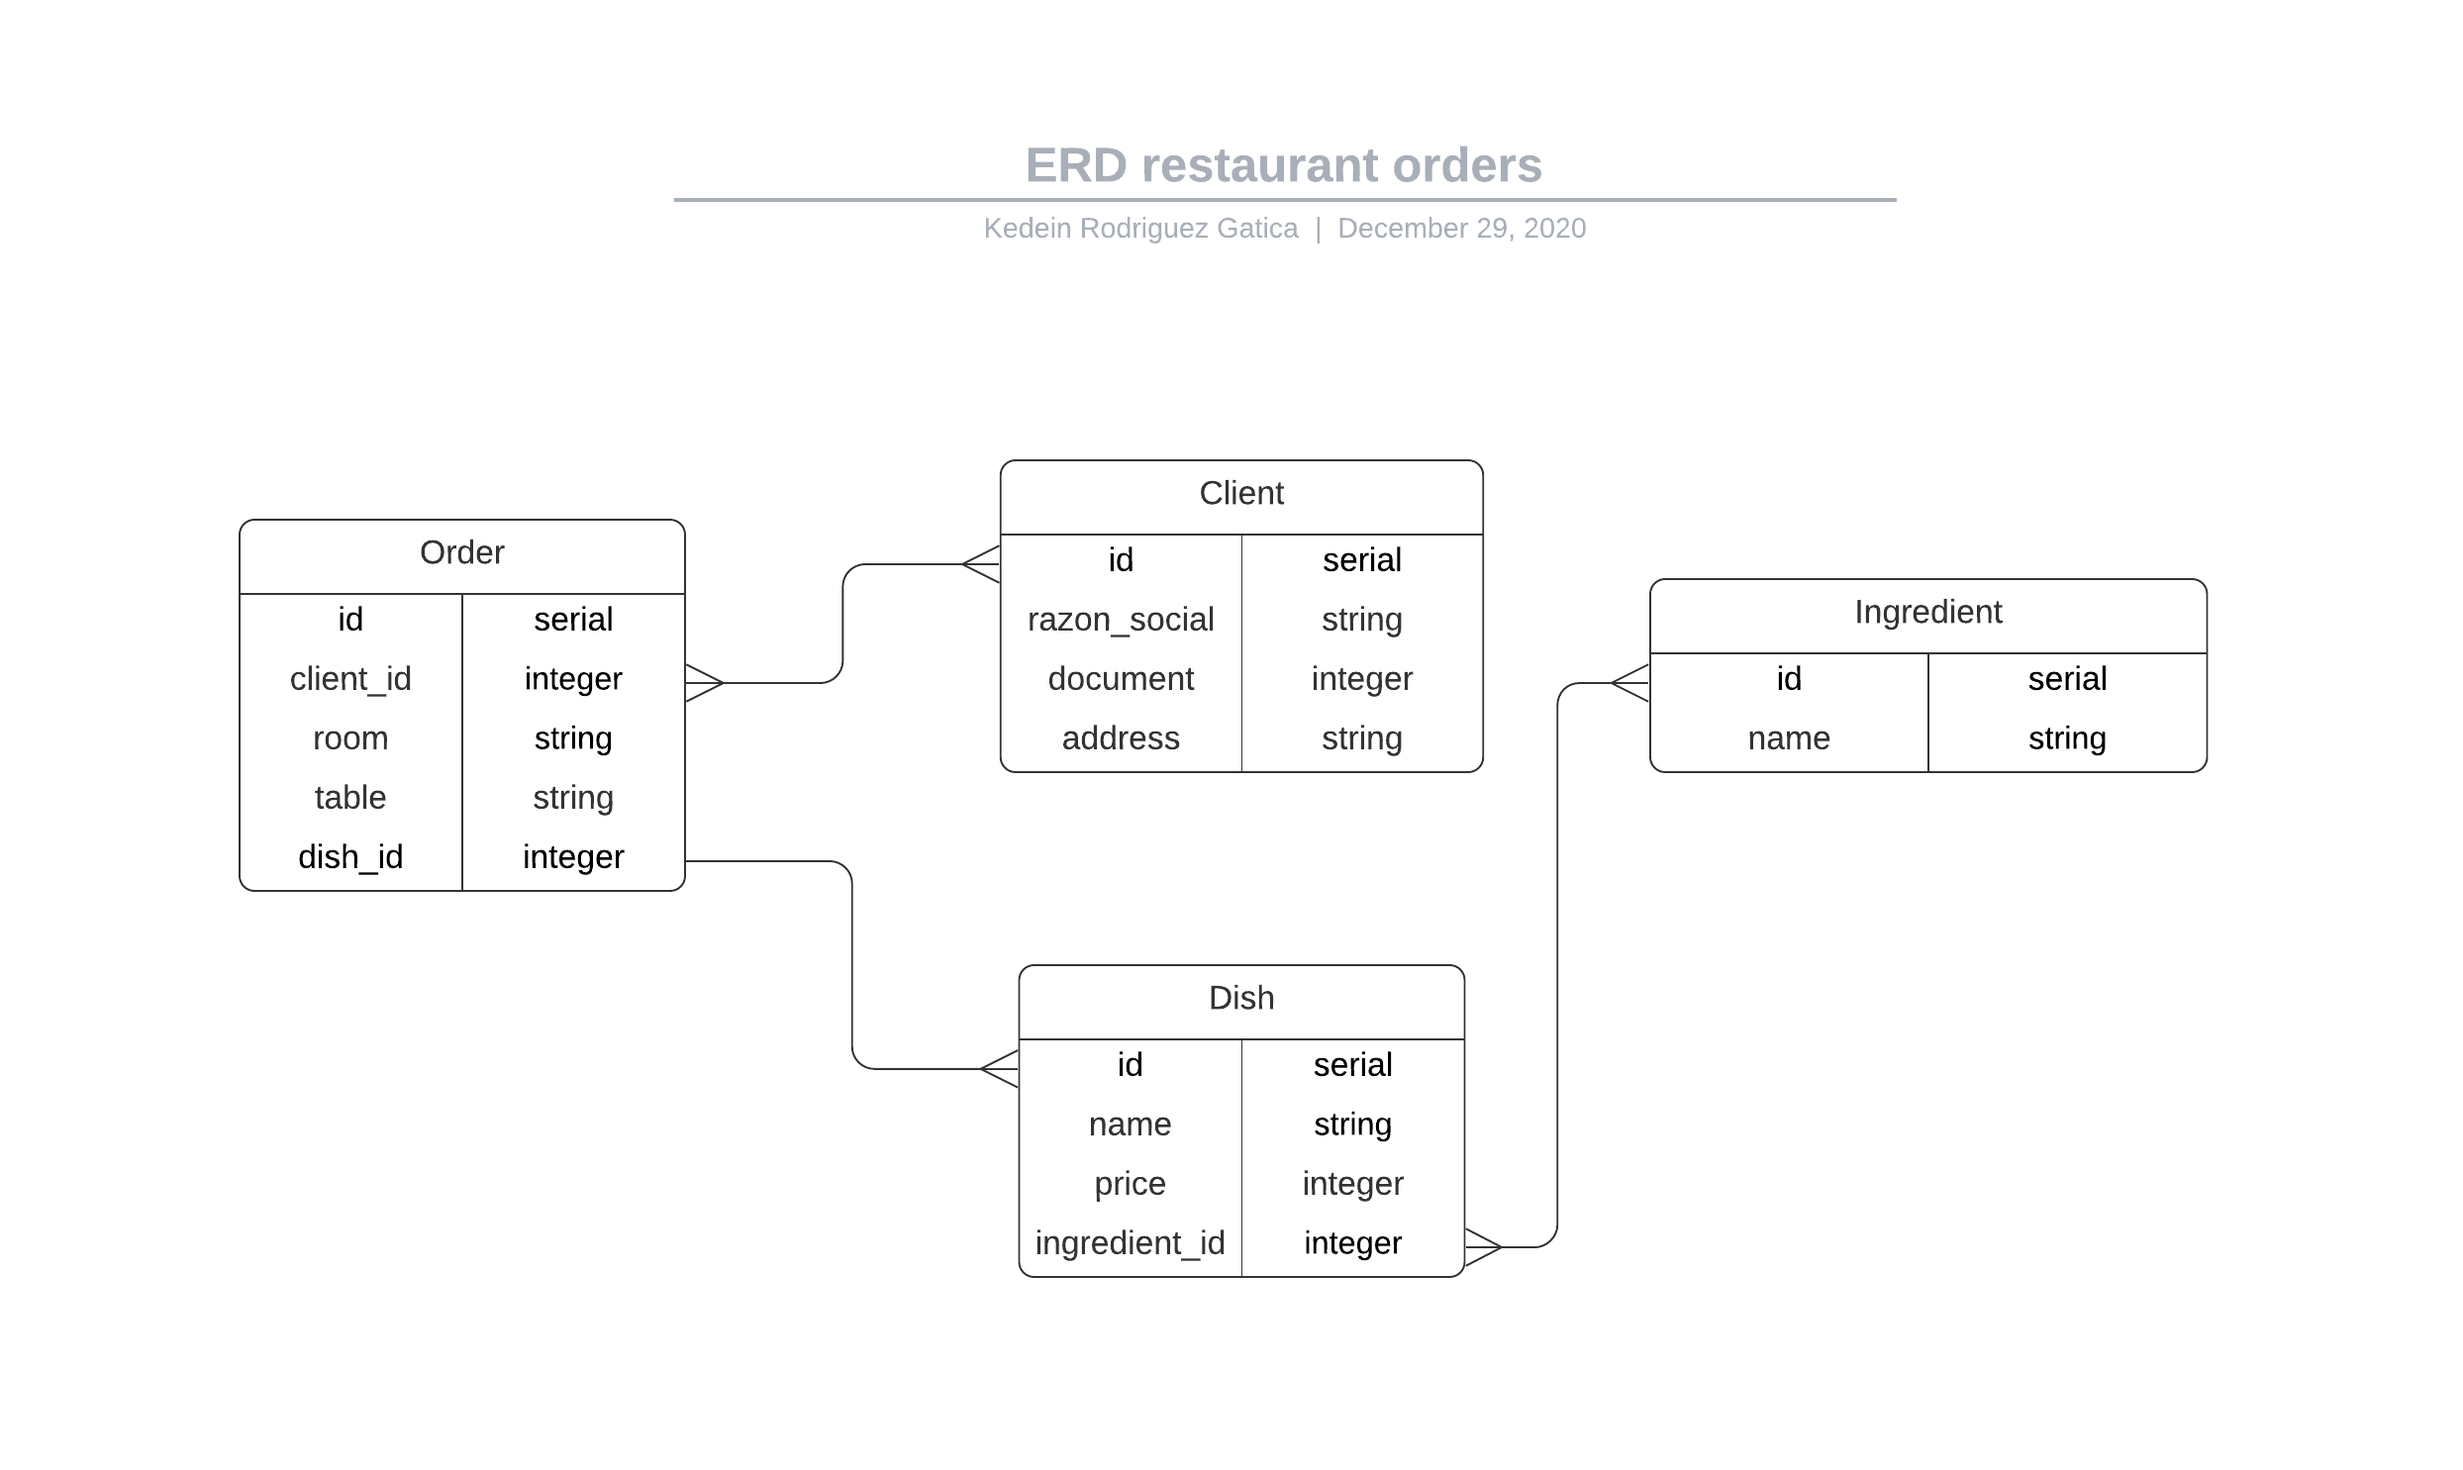
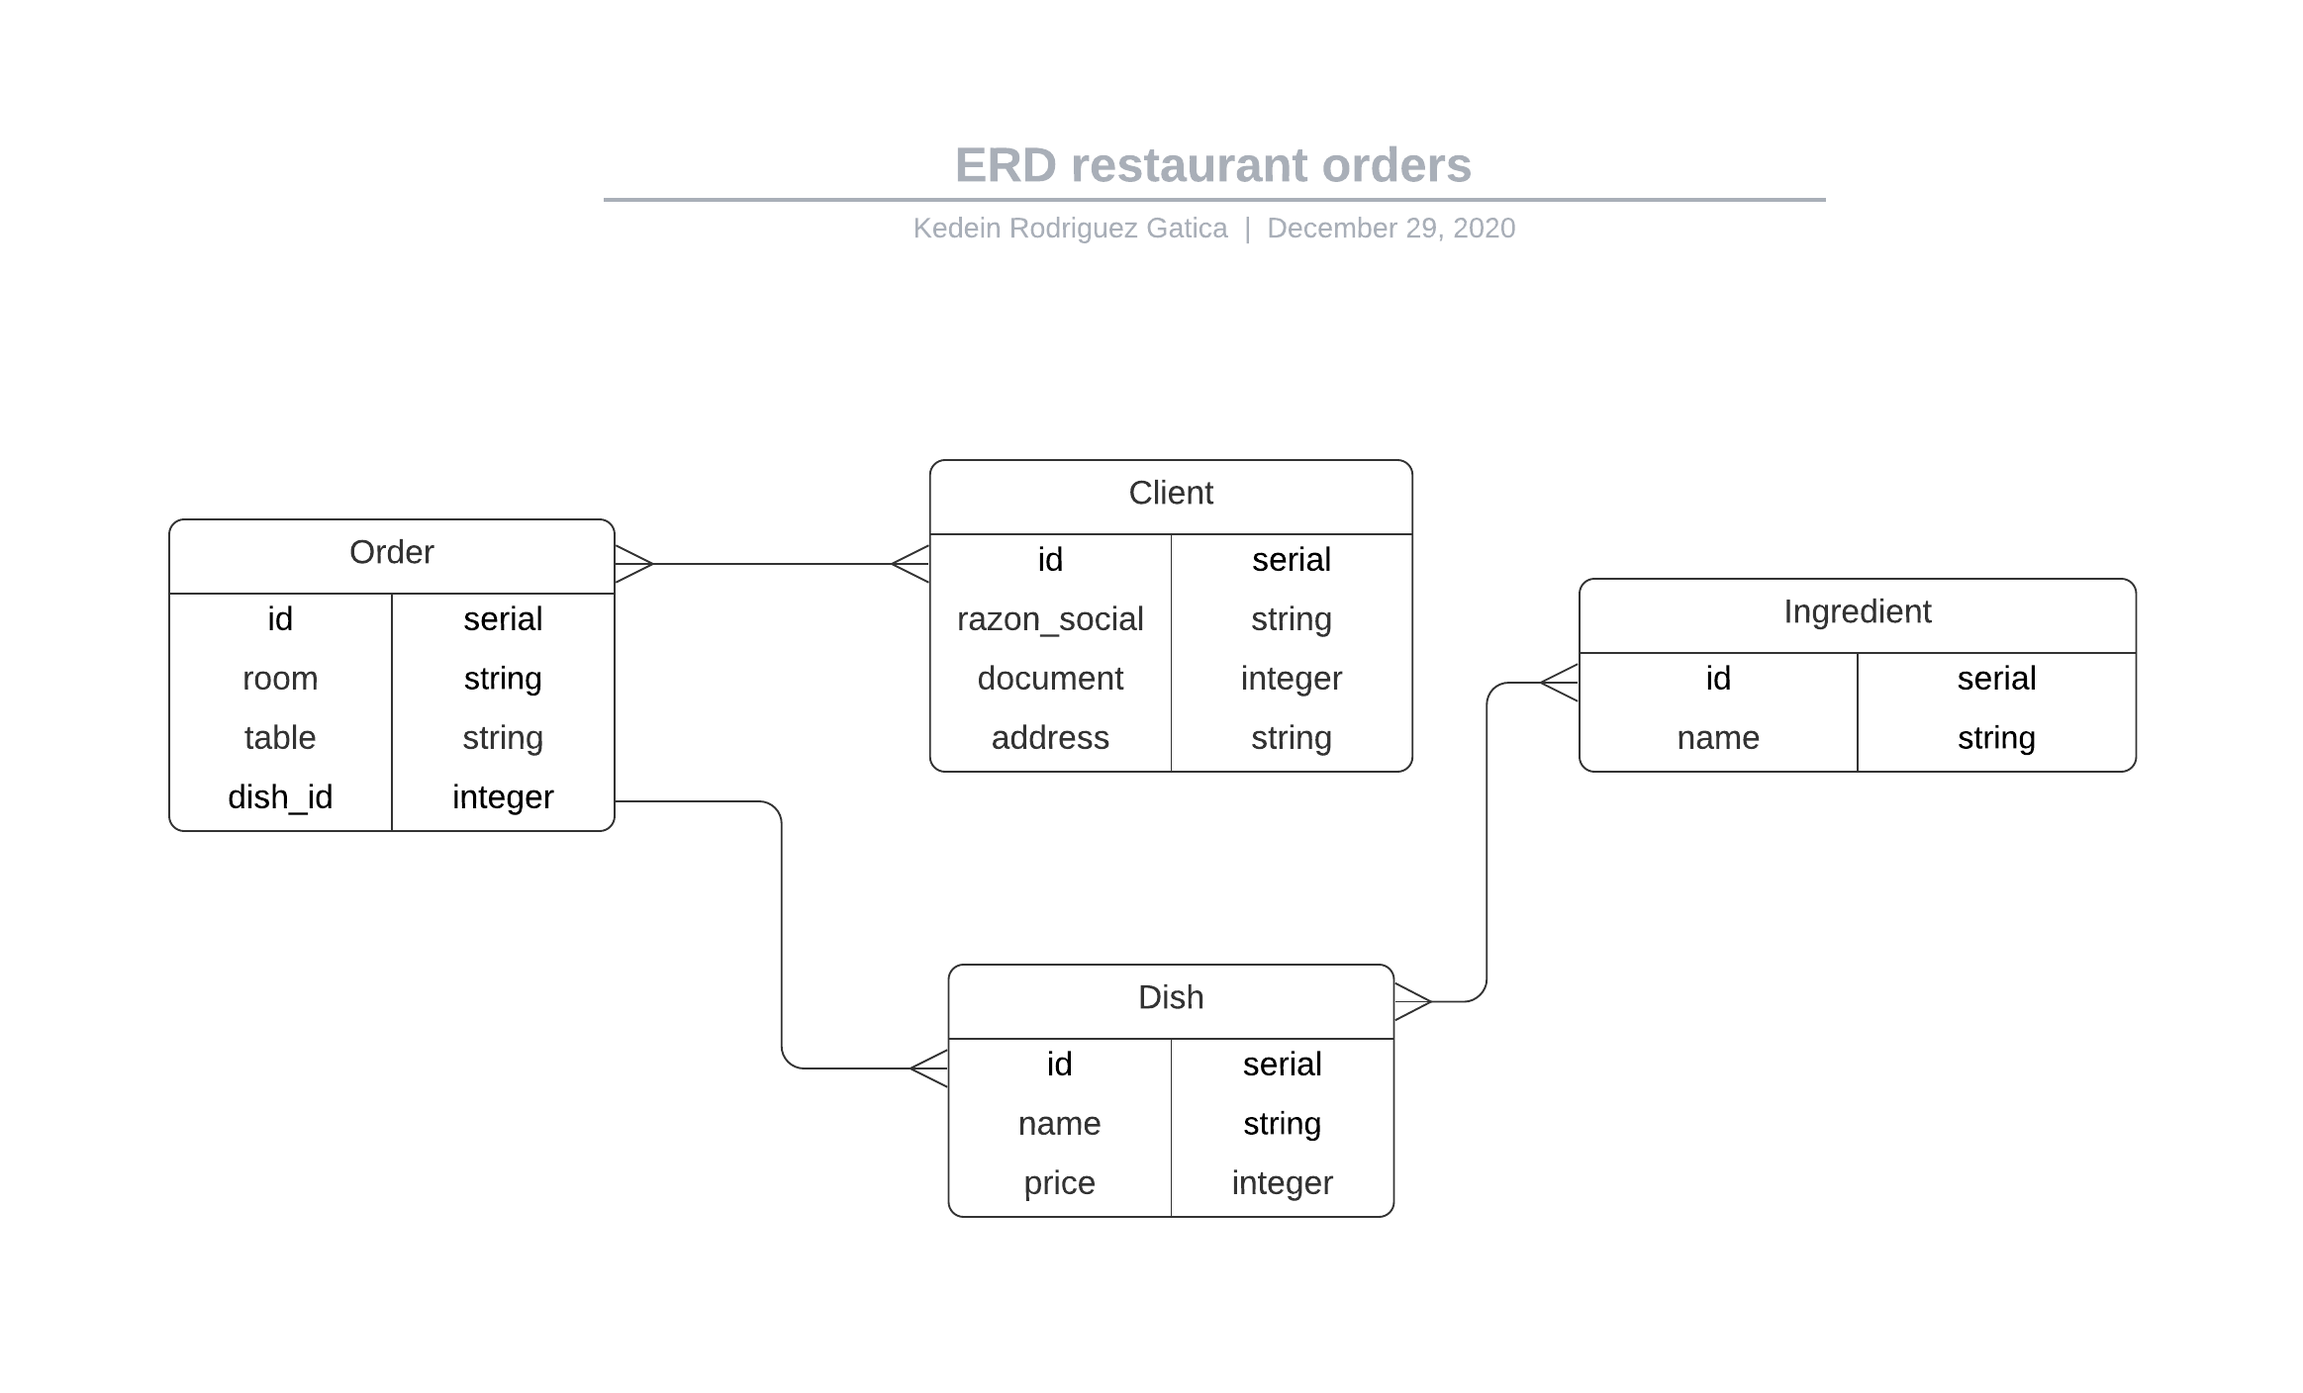
modified ERD diagram and created models Client Dish Ingredient Order in this project

diff --git a/db/schema.rb b/db/schema.rb
@@ -1,0 +1,49 @@
+# This file is auto-generated from the current state of the database. Instead
+# of editing this file, please use the migrations feature of Active Record to
+# incrementally modify your database, and then regenerate this schema definition.
+#
+# This file is the source Rails uses to define your schema when running `bin/rails
+# db:schema:load`. When creating a new database, `bin/rails db:schema:load` tends to
+# be faster and is potentially less error prone than running all of your
+# migrations from scratch. Old migrations may fail to apply correctly if those
+# migrations use external dependencies or application code.
+#
+# It's strongly recommended that you check this file into your version control system.
+
+ActiveRecord::Schema.define(version: 2020_12_29_215226) do
+
+  # These are extensions that must be enabled in order to support this database
+  enable_extension "plpgsql"
+
+  create_table "clients", force: :cascade do |t|
+    t.string "razon_social"
+    t.integer "document"
+    t.string "address"
+    t.datetime "created_at", precision: 6, null: false
+    t.datetime "updated_at", precision: 6, null: false
+  end
+
+  create_table "dishes", force: :cascade do |t|
+    t.string "name"
+    t.integer "price"
+    t.datetime "created_at", precision: 6, null: false
+    t.datetime "updated_at", precision: 6, null: false
+  end
+
+  create_table "ingredients", force: :cascade do |t|
+    t.string "name"
+    t.datetime "created_at", precision: 6, null: false
+    t.datetime "updated_at", precision: 6, null: false
+  end
+
+  create_table "orders", force: :cascade do |t|
+    t.string "room"
+    t.string "table"
+    t.bigint "dish_id", null: false
+    t.datetime "created_at", precision: 6, null: false
+    t.datetime "updated_at", precision: 6, null: false
+    t.index ["dish_id"], name: "index_orders_on_dish_id"
+  end
+
+  add_foreign_key "orders", "dishes"
+end

diff --git a/db/migrate/20201229215226_create_orders.rb b/db/migrate/20201229215226_create_orders.rb
@@ -1,0 +1,11 @@
+class CreateOrders < ActiveRecord::Migration[6.1]
+  def change
+    create_table :orders do |t|
+      t.string :room
+      t.string :table
+      t.references :dish, null: false, foreign_key: true
+
+      t.timestamps
+    end
+  end
+end

diff --git a/db/migrate/20201229215107_create_clients.rb b/db/migrate/20201229215107_create_clients.rb
@@ -1,0 +1,11 @@
+class CreateClients < ActiveRecord::Migration[6.1]
+  def change
+    create_table :clients do |t|
+      t.string :razon_social
+      t.integer :document
+      t.string :address
+
+      t.timestamps
+    end
+  end
+end

diff --git a/db/migrate/20201229215137_create_dishes.rb b/db/migrate/20201229215137_create_dishes.rb
@@ -1,0 +1,10 @@
+class CreateDishes < ActiveRecord::Migration[6.1]
+  def change
+    create_table :dishes do |t|
+      t.string :name
+      t.integer :price
+
+      t.timestamps
+    end
+  end
+end

diff --git a/db/migrate/20201229215042_create_ingredients.rb b/db/migrate/20201229215042_create_ingredients.rb
@@ -1,0 +1,9 @@
+class CreateIngredients < ActiveRecord::Migration[6.1]
+  def change
+    create_table :ingredients do |t|
+      t.string :name
+
+      t.timestamps
+    end
+  end
+end

diff --git a/app/models/order.rb b/app/models/order.rb
@@ -1,0 +1,3 @@
+class Order < ApplicationRecord
+  belongs_to :dish
+end

diff --git a/app/models/ingredient.rb b/app/models/ingredient.rb
@@ -1,0 +1,2 @@
+class Ingredient < ApplicationRecord
+end

diff --git a/app/models/client.rb b/app/models/client.rb
@@ -1,0 +1,2 @@
+class Client < ApplicationRecord
+end

diff --git a/app/models/dish.rb b/app/models/dish.rb
@@ -1,0 +1,2 @@
+class Dish < ApplicationRecord
+end
